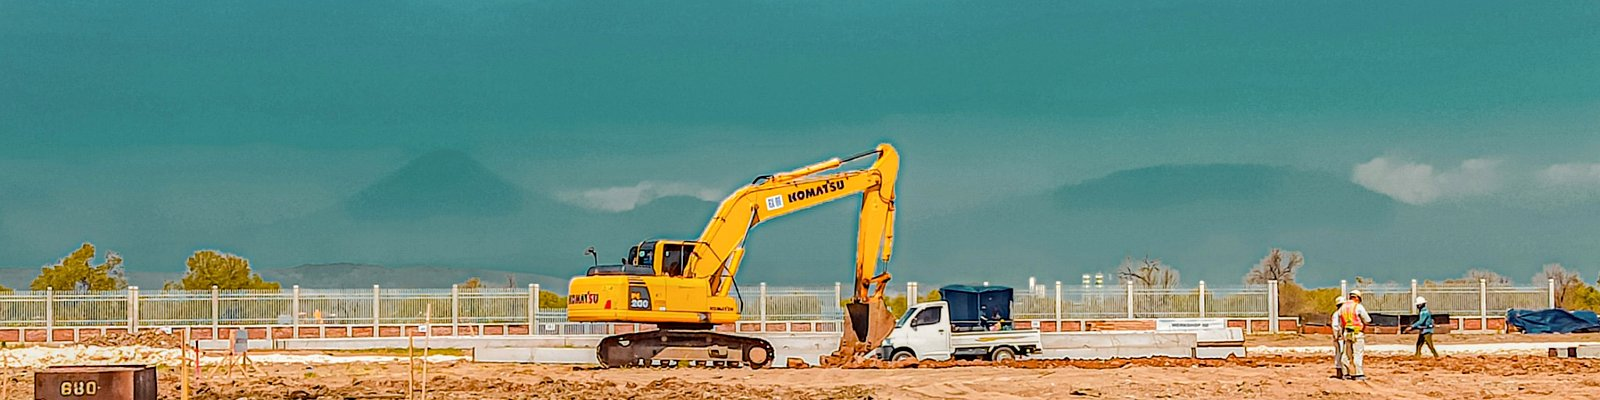
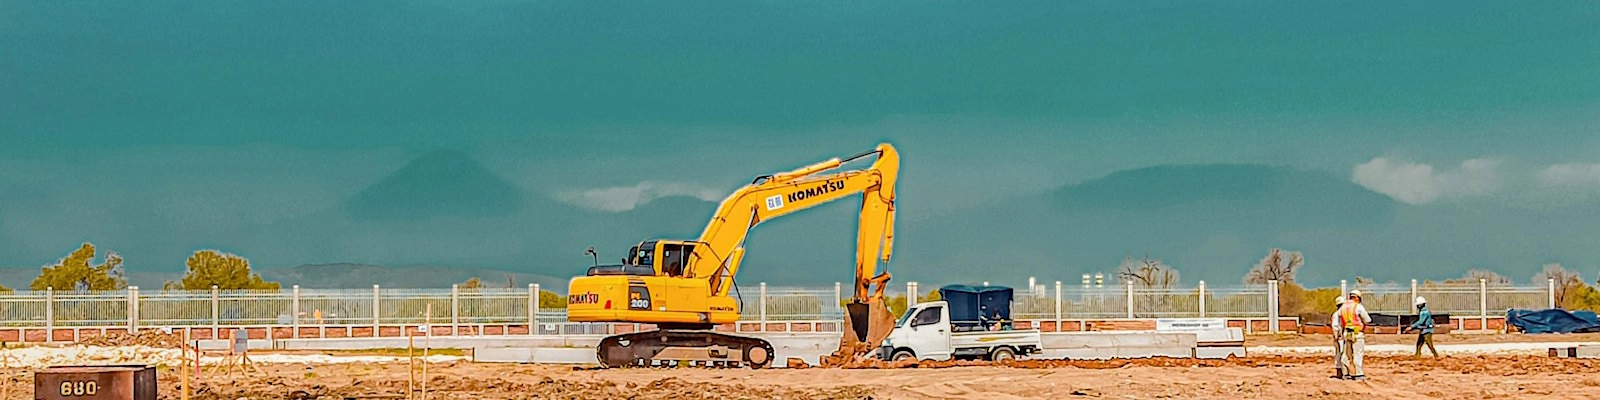
0525 afternoon

diff --git a/_layouts/project.html b/_layouts/project.html
@@ -7,7 +7,7 @@
 <body>
   {% include nav.html %}
 
-  <!-- 项目顶部图 -->
+  <!-- 顶部图 -->
   {% if page.header_image %}
     <div class="project-header" style="background-image: url('{{ page.header_image | relative_url }}'); height: 300px; background-size: cover; background-position: center;"></div>
   {% else %}
@@ -15,38 +15,62 @@
   {% endif %}
 
   <article class="container">
+
     <h1>{{ page.title }}</h1>
-
-    {% if page.client %}
-      <p><strong>Client:</strong> {{ page.client }}</p>
+    {% if page.subtitle %}
+      <h4 style="color: #777;">{{ page.subtitle }}</h4>
     {% endif %}
 
-    {% if page.project-date %}
-      <p><strong>Project Date:</strong> {{ page.project-date }}</p>
+    <!-- 第一部分：项目属性 -->
+    <section class="project-attributes grid-3">
+      {% if page.location %}
+        <div><strong>Location:</strong> {{ page.location }}</div>
+      {% endif %}
+      {% if page.client %}
+        <div><strong>Client:</strong> {{ page.client }}</div>
+      {% endif %}
+      {% if page.floor-area %}
+        <div><strong>Floor Area:</strong> {{ page.floor-area }}</div>
+      {% endif %}
+      {% if page.project-type %}
+        <div><strong>Type:</strong> {{ page.project-type }}</div>
+      {% endif %}
+      {% if page.project-status %}
+        <div><strong>Status:</strong> {{ page.project-status }}</div>
+      {% endif %}
+      {% if page.project-date %}
+        <div><strong>Project Date:</strong> {{ page.project-date }}</div>
+      {% endif %}
+    </section>
+
+<hr class="section-divider"> <!-- ✅ 分隔线 -->
+
+    <!-- 第二部分：项目点评 -->
+    {% if page.highlights %}
+    <section class="project-review">
+      <h2 class="section-title">Highlights</h2>
+      <p>{{ page.highlights | newline_to_br }}</p>
+    </section>
     {% endif %}
 
-    {% if page.project-type %}
-      <p><strong>Project Type:</strong> {{ page.project-type }}</p>
-    {% endif %}
-
-    {% if page.location %}
-      <p><strong>Location:</strong> {{ page.location }}</p>
-    {% endif %}
-
-    {% if page.description %}
-      <div class="post-description-wrapper">
-        <div class="post-description-border"></div>
-        <div class="post-description">{{ page.description }}</div>
-      </div>
-    {% endif %}
-
-    <div class="project-gallery">
-      {% for img in page.images %}
-        <img src="{{ site.baseurl }}/{{ img }}" class="img-responsive" alt="{{ page.title }}">
+    <!-- 第三部分：项目进程 -->
+    {% if page.progress %}
+    <section class="project-timeline">
+      <h2 class="section-title">Progress</h2>
+      {% for item in page.progress %}
+        <div class="timeline-stage">
+          <img src="{{ site.baseurl }}/{{ item.img }}" class="img-responsive" alt="project progress image">
+          {% if item.text %}
+            <p class="caption">{{ item.text }}</p>
+          {% endif %}
+        </div>
       {% endfor %}
-    </div>
+    </section>
+    {% endif %}
+
   </article>
 
   {% include footer.html %}
 </body>
 </html>
+

diff --git a/_includes/css/agency.css b/_includes/css/agency.css
@@ -1001,26 +1001,45 @@ body {
 .project-card {
   background: #ffffff;
   border-radius: 14px;
-  box-shadow: 0 4px 12px rgba(0,0,0,0.08);
+  box-shadow: 0 4px 12px rgba(0, 0, 0, 0.08);
   overflow: hidden;
   transition: transform 0.25s ease, box-shadow 0.25s ease;
   width: 100%;
   max-width: 300px;
   margin: 1rem auto;
   text-align: center;
+  padding-bottom: 1rem; /* ✅ 新增底部内边距 */
 }
 
 .project-card:hover {
   transform: translateY(-5px);
-  box-shadow: 0 8px 20px rgba(0,0,0,0.15);
+  box-shadow: 0 8px 20px rgba(0, 0, 0, 0.15);
 }
 
+/* ✅ 图片区域优化：更高比例、更自然显示 */
 .project-card img.module-image {
   width: 100%;
-  height: 180px;
+  aspect-ratio: 4 / 3;           /* ✅ 替代固定 height: 180px */
   object-fit: cover;
+  display: block;
   border-bottom: 1px solid #eee;
 }
+
+/* ✅ 标题文字 */
+.project-card h3 {
+  font-size: 1rem;
+  font-weight: 600;
+  margin: 0.75rem 0 0.25rem;
+  color: #222;
+}
+
+/* ✅ 副标题（如位置/类型） */
+.project-card p {
+  font-size: 1.6rem;
+  color: #666;
+  margin: 0;
+}
+
 
 .module-content {
   padding: 1rem;
@@ -1053,4 +1072,62 @@ body {
   font-weight: 500;
   color: #333; /* 更深更醒目 */
   line-height: 1.6;
+}
+.grid-3 {
+  display: grid;
+  grid-template-columns: repeat(auto-fit, minmax(240px, 1fr));
+  gap: 16px;
+  margin: 16px 0 12px;
+}
+
+.project-review {
+  background: #f8f9fa;
+  border-radius: 8px;
+  margin-bottom: 30px;
+}
+
+.project-review p {
+  font-size: 16px;
+  font-weight: 400;
+  line-height: 1.75;
+  color: #333;
+  margin-bottom: 0.75em;
+}
+
+.project-timeline .timeline-stage {
+   margin-bottom: 30px;
+}
+
+.project-timeline img {
+  display: block;
+  margin: 0 auto;         /* ✅ 水平居中 */
+  max-width: 100%;
+  border-radius: 6px;
+  margin-bottom: 8px;
+}
+
+
+.project-timeline .caption {
+  font-size: 20px;
+  color: #313131;
+  text-align: center;
+}
+
+h2.section-title {
+  font-size: 24px;
+  font-weight: 600;
+  color: #222;
+  text-align: left;
+  margin: 12px 0 8px;
+  border-left: 4px solid #007bff;
+  padding-inline-start: 12px;
+  display: block; /* 替代 inline-block，避免蓝线高度问题 */
+}
+.section-divider {
+  border: none;
+  border-top: 1px solid #e0e0e0;
+  margin: 8px 0 16px;
+}
+article h1 {
+  margin-top: 40px;
 }
